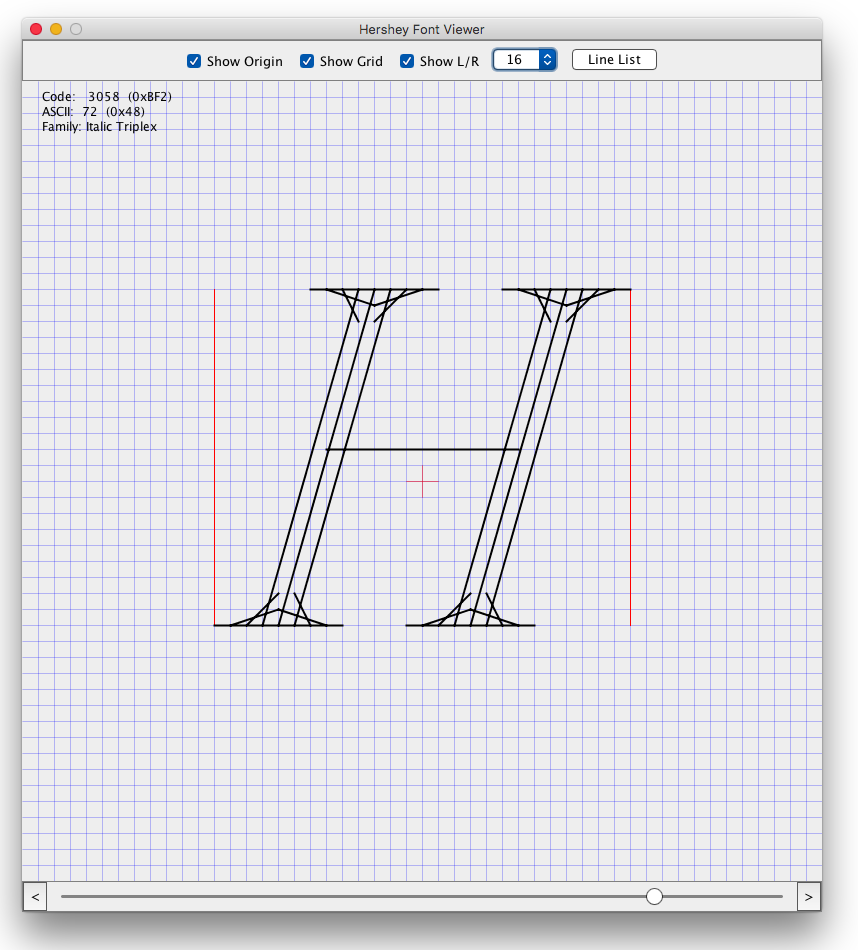
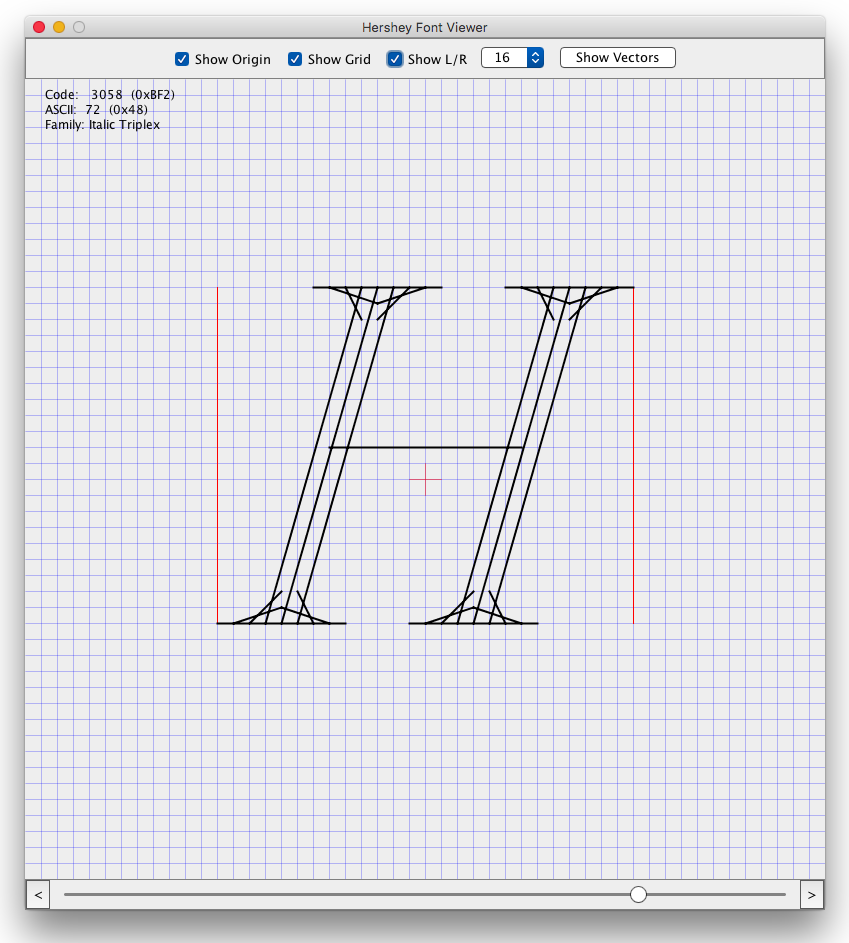
Change Button label to "Vector List"

Changed region(s): [[0.0, 0.0, 0.98, 0.9841]]

diff --git a/src/HersheyView.java b/src/HersheyView.java
@@ -18,17 +18,19 @@ class HersheyView extends JPanel {
   private double                zoom = 8;
 
   private HersheyView () throws IOException {
+    // Build glyphs from James Hurt's ASCII format
     String font = getResource("hershey.txt");
     StringTokenizer tok = new StringTokenizer(font, "\n\r");
     List<String> lines = new ArrayList<>();
+    // Step 1: recombine lines that were split at 72 character boundary
     while (tok.hasMoreElements()) {
       String line = tok.nextToken();
-      boolean isNewGlyph = true;
+      boolean startOfGlyph = true;
       for (int ii = 0; ii < Math.min(4, line.length()); ii++) {
         char cc = line.charAt(ii);
-        isNewGlyph &= (Character.isDigit(cc) || cc == ' ');
+        startOfGlyph &= (Character.isDigit(cc) || cc == ' ');
       }
-      if (isNewGlyph) {
+      if (startOfGlyph) {
         lines.add(line);
       } else {
         int idx = lines.size() - 1;
@@ -37,6 +39,7 @@ class HersheyView extends JPanel {
         lines.add(p1);
       }
     }
+    // Step 2: Parse Hurt format and convert to Path2D.Double object
     for (String line : lines) {
       Path2D.Double path = new Path2D.Double();
       int code = Integer.parseInt(line.substring(0, 5).trim());
@@ -63,7 +66,7 @@ class HersheyView extends JPanel {
       }
       glyphs.add(new HersheyGlyph(code, path, left, right));
     }
-    // Build Hershey code to ASCII lookup tables from ascii.txt file
+    // Build Hershey code to ASCII code lookup tables from ascii.txt file
     String lookup = getResource("ascii.txt");
     tok = new StringTokenizer(lookup, "\n\r");
     while (tok.hasMoreElements()) {
@@ -101,7 +104,7 @@ class HersheyView extends JPanel {
       fis.close();
       return new String(data);
     } else {
-      throw new IOException("Unable to fine file: " + file);
+      throw new IOException("Unable to find file: " + file);
     }
   }
 
@@ -279,10 +282,10 @@ class HersheyView extends JPanel {
       JComboBox<String> zoom = new JComboBox<>(new String[] {"8", "16", "32", "64"});
       zoom.addActionListener(ev -> hershey.setZoom((String) zoom.getSelectedItem()));
       controls.add(zoom);
-      JButton vectors = new JButton("Line List");
+      JButton vectors = new JButton("Show Vectors");
       controls.add(vectors);
       vectors.addActionListener(ev -> {
-        JDialog dialog = new JDialog(frame, "Show Vectors", Dialog.ModalityType.DOCUMENT_MODAL);
+        JDialog dialog = new JDialog(frame, "Vectors", Dialog.ModalityType.DOCUMENT_MODAL);
         dialog.setLocationRelativeTo(hershey);
         JTextArea txt = new JTextArea();
         JScrollPane sPane = new JScrollPane(txt);

diff --git a/README.md b/README.md
@@ -8,7 +8,7 @@ I originally created HersheyView as a tool to support the developoment of a set 
 ### Features
  - Click the "**`Show Origin`**" checkbox to display the origin of the vectors that make up each character glyph.
  - Click the "**`Show Grid`**" checkbox to display a unit grid
- - Click the "**`Show L/R`**" checkbox to display red, vertical lines that show the horizontal space needed by the glyph.
+ - Click the "**`Show L/R`**" checkbox to display red, vertical lines that show left and right boundaries of the glyph.
  - Use the dropdown to select a zoom factor of 8 to 64 times.
  - Click the "**`Show Vectors`**" button to display a list of all the vectors (x1, y1, x2, y2) used to draw the glyph.
  - Use the slider and the left/right arrows under the view area to select a glyph.
@@ -35,6 +35,6 @@ Each glyph is assigned a code that's displayed in the upper left corner of the v
  - Script Complex
  - Script Simplex
  
-Note: There are also a wide variety of specialized symbnols included.   Dr. Hershey also developed a Japanese character font, but those glyphs are not included in the code.
+Note: There are also a wide variety of specialized symbnols included that do not have ASCII equivalents.   In addition, Dr. Hershey also developed a Japanese character font, but those glyphs are not included in the code.
 ### Requirements
 Java 8 JDK, or later must be installed in order to compile the code.  There is also a [**Runnable JAR file**](https://github.com/wholder/HersheyView/tree/master/out/artifacts/HersheyView_jar) included in the checked in code that you can download.   On a Mac, just double click the `GerberPlot.jar` file and it should start.  Then, use `File->Open Gerber File` to open a file and then use the `Options` menu to select different render modes.  _Note: you may have to select the `GerberPlot.jar` file, then do a right click and select "Open" the first time you run the file to satisfy Mac OS' security checks._  You should also be able to run the JAR file on Windows or Linux systems, but you'll need to have a Java 8 JRE, or later installed and follow the appropriate process for each needed to run an executable JAR file.
